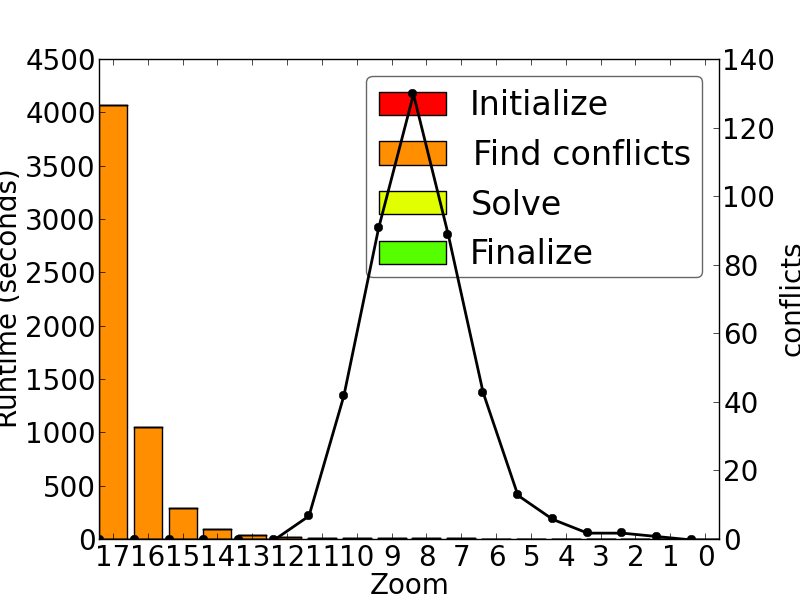
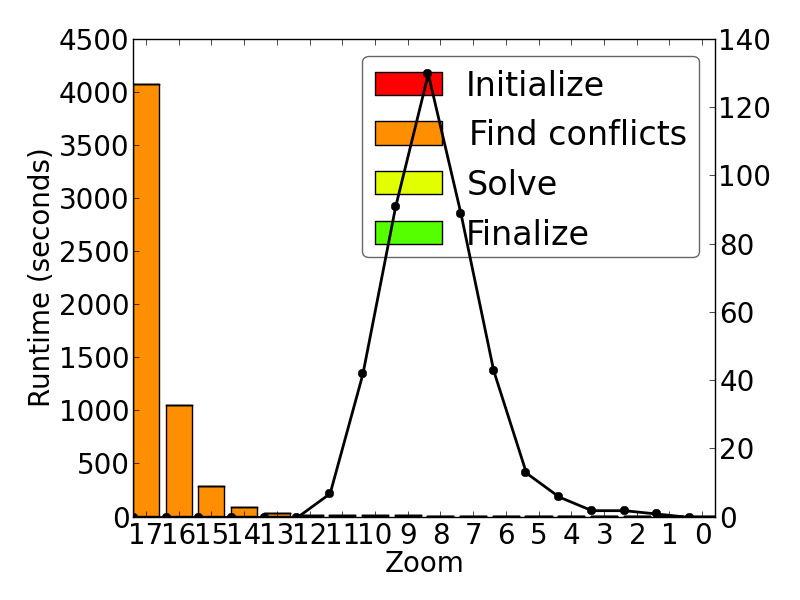
ok, phew

Changed region(s): [[0.0, 0.03, 1.0, 0.99]]

diff --git a/paper/experiments.tex b/paper/experiments.tex
@@ -190,18 +190,18 @@ The LPGA solver is the exception when there are a lot of conflicts, were it cons
 \begin{figure*}[tb]
   \begin{minipage}{0.329\linewidth}
     \centerline{\includegraphics[width=1.0\linewidth]{./figs/prelim_pol_30k_dai_lp_A.png}}
-    \centerline{(a) SGA + Proximity}
+    \centerline{(a) Zones: SGA + Proximity}
   \end{minipage} \hfill
   \begin{minipage}{0.329\linewidth}
     \centerline{\includegraphics[width=1.0\linewidth]{./figs/prelim_pol_30k_dai_heuristic_A.png}}
-    \centerline{(b) LPGA + Visibility}
+    \centerline{(b) Rivers: SGA + Visibility}
   \end{minipage} \hfill
   \begin{minipage}{0.329\linewidth}
-    \centerline{\includegraphics[width=1.0\linewidth]{./figs/prelim_lin_30k_uswaterway_lp_B.png}}
-    \centerline{(c) LPGA + Proximity}
+    \centerline{\includegraphics[width=1.0\linewidth]{./figs/prelim_lin_30k_uswaterway_lp_A.png}}
+    \centerline{(c) Rivers: LPGA + Visibility}
   \end{minipage}
   \vspace{-0ex}
-  \caption{Performance breakdown by zoom level for complex shapes. Running time is dominated by finding conflicts. Black line indicates number of conflicts} \label{fig:performance:complex}
+  \caption{Performance breakdown by zoom level for complex shapes. Running time is most often dominated by finding conflicts. Black line indicates number of conflicts} \label{fig:performance:complex}
   \vspace{-2ex}
 \end{figure*}
 

diff --git a/code/graphs/cvlgraph.py b/code/graphs/cvlgraph.py
@@ -110,7 +110,7 @@ class Stack(object):
 
         ax2.plot(range(len(zoom_levels)), [level['levelstats']['num_c'] for level in trace.levels], 'o-', linewidth=2,
                  c="black")
-        ax2.set_ylabel('conflicts')
+        #ax2.set_ylabel('conflicts')
 
         if trace.input_table == 'pnt_7k_airports':
             leg = ax1.legend(loc='upper left', fancybox=True)
@@ -127,7 +127,8 @@ class Stack(object):
             self.trace.solver,
             constr))
         print "Writing figure to {0:s}".format(filename)
-        plt.subplots_adjust(wspace=1.4)
+        #plt.subplots_adjust(left=-2.4)
+        plt.tight_layout()
         plt.savefig(filename)
         plt.clf()
 
